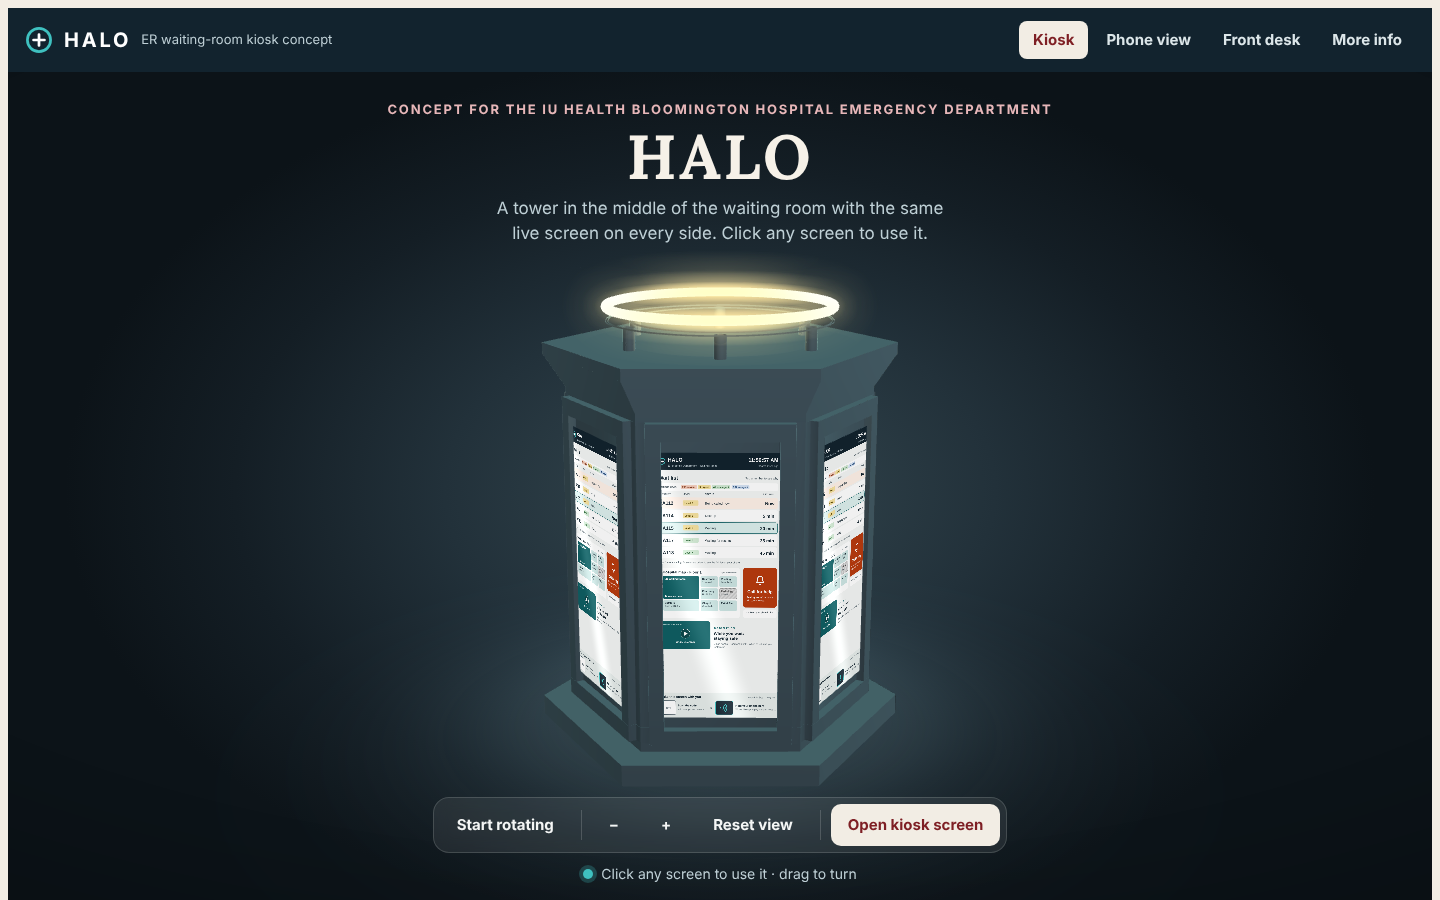
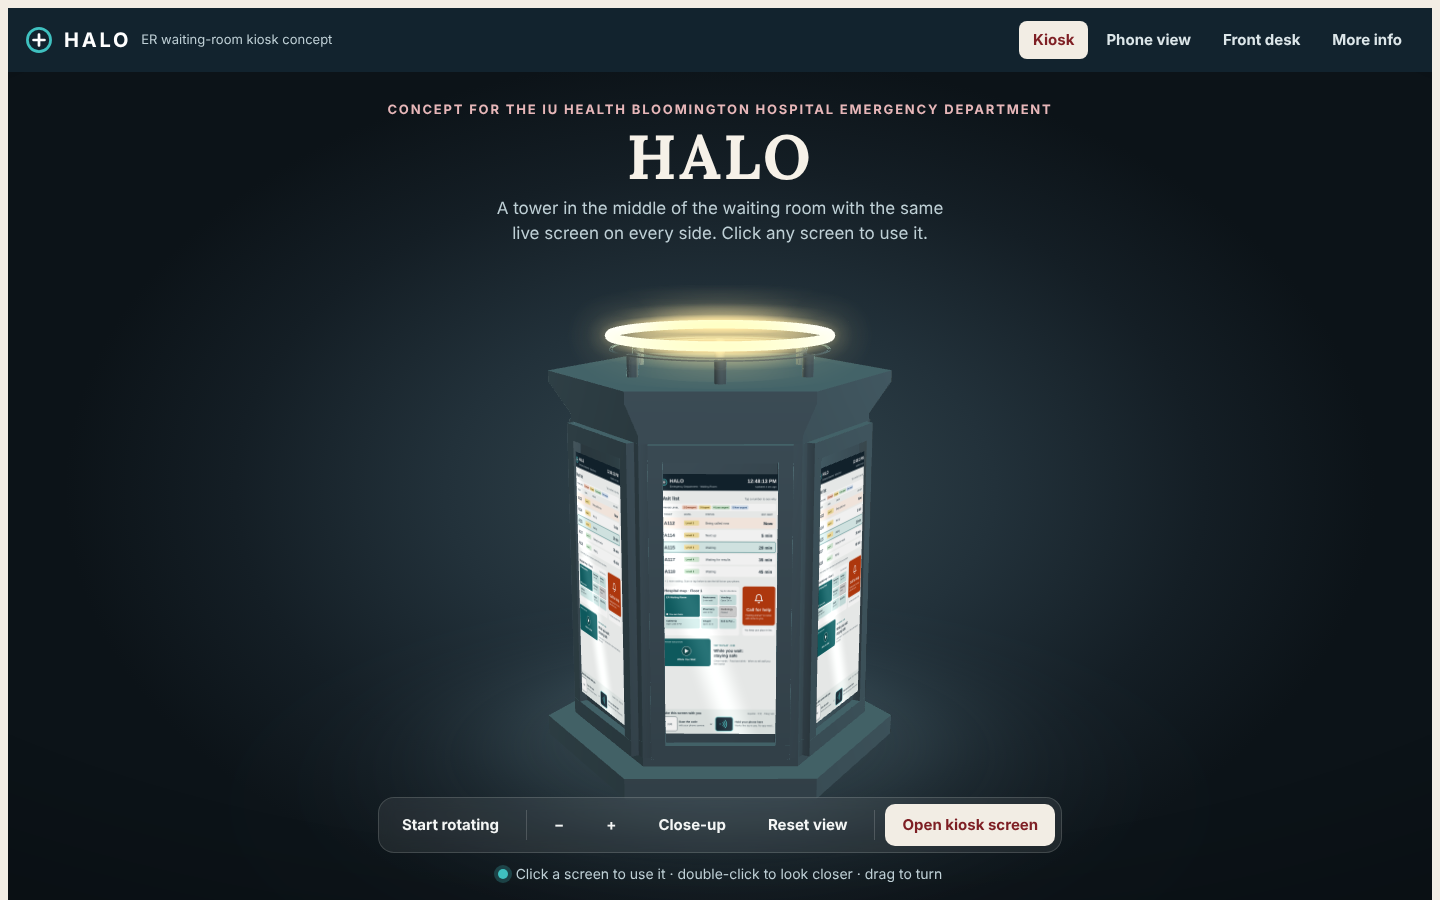
Smooth eased 3D controls, close-up view, sharper screens
Claude-Session: https://claude.ai/code/session_01JPVrxjvNyRJugvYniBXqZG

Changed region(s): [[0.375, 0.28, 0.625, 0.8711], [0.3438, 0.8711, 0.75, 0.9956], [0.2812, 0.9022, 0.4062, 0.9333]]

diff --git a/index.html b/index.html
@@ -73,6 +73,9 @@ button:focus-visible, a:focus-visible { outline: 3px solid #3FC1C0; outline-offs
 .tools button[aria-pressed="true"] { background: var(--crimson); border-color: var(--crimson); color: #FFFFFF; }
 .btn-primary { background: var(--crimson); border-color: var(--crimson); color: #FFFFFF; text-decoration: none; display: inline-flex; align-items: center; }
 .stage.panel-open .lede { display: none; }
+.stage-copy { transition: opacity 0.35s ease; }
+.stage.close-up .stage-copy { opacity: 0; }
+@media (prefers-reduced-motion: reduce) { .stage-copy { transition: none; } }
 .no-gl { position: absolute; inset: 0; z-index: 1; display: flex; flex-direction: column; align-items: center; justify-content: center; gap: 12px; text-align: center; padding: 24px; color: #BFD0D6; }
 
 .panel { flex: 0 0 min(520px, 42vw); background: var(--paper); border-left: 1px solid var(--wall-deep); display: flex; flex-direction: column; max-height: calc(100vh - var(--nav-h) - env(safe-area-inset-top, 0px)); position: sticky; top: calc(var(--nav-h) + env(safe-area-inset-top, 0px)); }
@@ -171,11 +174,12 @@ footer.site .in { max-width: 1440px; margin: 0 auto; padding-block: 18px 28px; d
           <span class="sep" aria-hidden="true"></span>
           <button type="button" id="zoomOut" aria-label="Zoom out">&minus;</button>
           <button type="button" id="zoomIn" aria-label="Zoom in">+</button>
+          <button type="button" id="closeUpBtn" aria-pressed="false">Close-up</button>
           <button type="button" id="resetView">Reset view</button>
           <span class="sep" aria-hidden="true"></span>
           <button type="button" id="openPanelBtn" class="primary">Open kiosk screen</button>
         </div>
-        <p class="hint"><span class="dot" aria-hidden="true"></span>Click any screen to use it · drag to turn</p>
+        <p class="hint"><span class="dot" aria-hidden="true"></span>Click a screen to use it · double-click to look closer · drag to turn</p>
       </div>
     </div>
     <aside class="panel" id="kioskPanel" aria-label="Screens" hidden>
@@ -1550,7 +1554,7 @@ class Component extends DCLogic {
       const r = [n[2], 0, -n[0]]; // viewer's right when facing this side
       const full = Math.hypot(B[0] - A[0], B[2] - A[2]);
       const w = full * (M.screenInset[1] - M.screenInset[0]);
-      const off = 0.16;
+      const off = 0.6;
       const cx = mx + n[0] * off, cz = mz + n[2] * off;
       const TL = [cx - r[0] * w / 2, yTop, cz - r[2] * w / 2], TR = [cx + r[0] * w / 2, yTop, cz + r[2] * w / 2];
       const BR = [TR[0], yBot, TR[2]], BL = [TL[0], yBot, TL[2]];
@@ -1597,7 +1601,9 @@ class Component extends DCLogic {
     };
     const tex = gl.createTexture();
     gl.bindTexture(gl.TEXTURE_2D, tex);
-    gl.texParameteri(gl.TEXTURE_2D, gl.TEXTURE_MIN_FILTER, gl.LINEAR);
+    gl.texParameteri(gl.TEXTURE_2D, gl.TEXTURE_MIN_FILTER, gl.LINEAR_MIPMAP_LINEAR);
+    const aniso = gl.getExtension('EXT_texture_filter_anisotropic') || gl.getExtension('WEBKIT_EXT_texture_filter_anisotropic');
+    if (aniso) gl.texParameterf(gl.TEXTURE_2D, aniso.TEXTURE_MAX_ANISOTROPY_EXT, Math.min(8, gl.getParameter(aniso.MAX_TEXTURE_MAX_ANISOTROPY_EXT)));
     gl.texParameteri(gl.TEXTURE_2D, gl.TEXTURE_MAG_FILTER, gl.LINEAR);
     gl.texParameteri(gl.TEXTURE_2D, gl.TEXTURE_WRAP_S, gl.CLAMP_TO_EDGE);
     gl.texParameteri(gl.TEXTURE_2D, gl.TEXTURE_WRAP_T, gl.CLAMP_TO_EDGE);
@@ -1625,25 +1631,35 @@ class Component extends DCLogic {
     }
     const xf = (m, v) => [0, 1, 2, 3].map((i) => m[i] * v[0] + m[4 + i] * v[1] + m[8 + i] * v[2] + m[12 + i] * v[3]);
 
-    // ---- camera
-    const START = { yaw: 0.52, pitch: 0.27, dist: 240 };
-    let yaw = START.yaw, pitch = START.pitch, dist = START.dist, spinning = false, dirty = true, panelOpen = false;
+    // ---- camera: everything eases toward a goal, so motion is smooth
+    const START = { yaw: 0.52, pitch: 0.24 };
+    const BASE_SY = -0.07, SCREEN_Y = (yTop + yBot) / 2 + 1;
+    const cam = { yaw: START.yaw, pitch: START.pitch, dist: 215, ty: 4, sy: BASE_SY };
+    const goal = Object.assign({}, cam);
+    let fitDist = 215, vel = 0, spin = 0, spinGoal = 0, dirty = true, panelOpen = false, closeUp = false, userZoomed = false, firstFit = true;
     let VP = null, eye = [0, 0, 0], hover = -1;
+    function computeFit() {
+      const asp = canvas.width / canvas.height, t = Math.tan((asp < 0.8 ? 0.78 : 0.62) / 2);
+      fitDist = Math.max(46 / (t * 0.58), 40 / (t * asp * 0.6));
+      if (!userZoomed && !closeUp) { goal.dist = fitDist; if (firstFit) cam.dist = fitDist; }
+      firstFit = false;
+    }
     function resize() {
       const r = canvas.getBoundingClientRect(), dpr = Math.min(window.devicePixelRatio || 1, 2);
       const w = Math.max(1, Math.round(r.width * dpr)), h = Math.max(1, Math.round(r.height * dpr));
-      if (canvas.width !== w || canvas.height !== h) { canvas.width = w; canvas.height = h; dirty = true; }
+      if (canvas.width !== w || canvas.height !== h) { canvas.width = w; canvas.height = h; computeFit(); dirty = true; }
     }
     function matrices() {
       const asp = canvas.width / canvas.height;
-      eye = [dist * Math.cos(pitch) * Math.sin(yaw), 4 + dist * Math.sin(pitch), dist * Math.cos(pitch) * Math.cos(yaw)];
-      const T = [1, 0, 0, 0, 0, 1, 0, 0, 0, 0, 1, 0, 0, 0, 0, 1];
+      eye = [cam.dist * Math.cos(cam.pitch) * Math.sin(cam.yaw), cam.ty + cam.dist * Math.sin(cam.pitch), cam.dist * Math.cos(cam.pitch) * Math.cos(cam.yaw)];
+      const T = [1, 0, 0, 0, 0, 1, 0, 0, 0, 0, 1, 0, 0, cam.sy, 0, 1];
       const fov = asp < 0.8 ? 0.78 : 0.62;
-      VP = mul(T, mul(persp(fov, asp, 20, 800), lookAt(eye, [0, 5, 0], up)));
+      VP = mul(T, mul(persp(fov, asp, 10, 900), lookAt(eye, [0, cam.ty, 0], up)));
     }
+    const near = (target, current) => target + Math.PI * 2 * Math.round((current - target) / (Math.PI * 2));
 
     // ---- live screen texture (drawn from the kiosk's own state)
-    const TW = 640, TH = Math.round(640 * 1580 / 760);
+    const TW = 1024, TH = 2048;
     const tc = document.createElement('canvas'); tc.width = TW; tc.height = TH;
     const c2 = tc.getContext('2d');
     let regions = [];
@@ -1787,6 +1803,7 @@ class Component extends DCLogic {
       drawScreen(kv);
       gl.bindTexture(gl.TEXTURE_2D, tex);
       gl.texImage2D(gl.TEXTURE_2D, 0, gl.RGBA, gl.RGBA, gl.UNSIGNED_BYTE, tc);
+      gl.generateMipmap(gl.TEXTURE_2D);
       dirty = true;
     }
 
@@ -1851,7 +1868,16 @@ class Component extends DCLogic {
     const reduce = window.matchMedia && window.matchMedia('(prefers-reduced-motion: reduce)').matches;
     function loop(t) {
       const dt = last ? Math.min(0.05, (t - last) / 1000) : 0; last = t;
-      if (spinning) { yaw += dt * 0.45; dirty = true; }
+      if (!(drag && drag.moved) && Math.abs(vel) > 1e-4) { goal.yaw += vel * dt; vel *= Math.exp(-dt * 3.2); }
+      spin += (spinGoal - spin) * (1 - Math.exp(-dt * 2.5));
+      if (Math.abs(spin) > 1e-4) goal.yaw += spin * dt;
+      const k = 1 - Math.exp(-dt * 9);
+      let moving = false;
+      for (const key of ['yaw', 'pitch', 'dist', 'ty', 'sy']) {
+        const d = goal[key] - cam[key];
+        if (Math.abs(d) > 1e-4) { cam[key] += d * k; moving = true; } else cam[key] = goal[key];
+      }
+      if (moving) dirty = true;
       if (kiosk.state.mode === 'help') dirty = true;
       if (dirty && view === 'kiosk') render();
       requestAnimationFrame(loop);
@@ -1888,11 +1914,44 @@ class Component extends DCLogic {
       openPanel('kiosk');
     }
     let drag = null;
-    canvas.addEventListener('pointerdown', (e) => { drag = { x: e.clientX, y: e.clientY, sx: e.clientX, sy: e.clientY, moved: false }; canvas.setPointerCapture(e.pointerId); });
+    const pts = new Map();
+    let pinch = null;
+    const closeBtn = document.getElementById('closeUpBtn');
+    function setClose(on) { closeUp = on; stage.classList.toggle('close-up', on); closeBtn.setAttribute('aria-pressed', on ? 'true' : 'false'); closeBtn.textContent = on ? 'Back to tower' : 'Close-up'; }
+    function leaveClose() { if (!closeUp) return; setClose(false); goal.dist = userZoomed ? Math.max(goal.dist, fitDist * 0.8) : fitDist; goal.ty = 4; goal.sy = BASE_SY; goal.pitch = Math.max(goal.pitch, 0.18); }
+    function focusScreen(i) {
+      const n = screens[i].n;
+      setSpin(false); vel = 0; setClose(true);
+      goal.yaw = near(Math.atan2(n[0], n[2]), cam.yaw); goal.pitch = 0.03; goal.dist = 126; goal.ty = SCREEN_Y; goal.sy = 0.1;
+    }
+    function facingScreen() {
+      let best = 0, bd = 9;
+      screens.forEach((s, i) => { const d = Math.abs(near(Math.atan2(s.n[0], s.n[2]), cam.yaw) - cam.yaw); if (d < bd) { bd = d; best = i; } });
+      return best;
+    }
+    canvas.addEventListener('pointerdown', (e) => {
+      pts.set(e.pointerId, { x: e.clientX, y: e.clientY });
+      canvas.setPointerCapture(e.pointerId);
+      if (pts.size === 2) { const [p1, p2] = [...pts.values()]; pinch = { d: Math.hypot(p1.x - p2.x, p1.y - p2.y) }; drag = null; return; }
+      drag = { x: e.clientX, y: e.clientY, sx: e.clientX, sy: e.clientY, t: performance.now(), moved: false }; vel = 0;
+    });
     canvas.addEventListener('pointermove', (e) => {
+      if (pts.has(e.pointerId)) pts.set(e.pointerId, { x: e.clientX, y: e.clientY });
+      if (pinch && pts.size === 2) {
+        const [p1, p2] = [...pts.values()]; const d = Math.hypot(p1.x - p2.x, p1.y - p2.y);
+        if (d > 0 && pinch.d > 0) { goal.dist = Math.max(85, Math.min(420, goal.dist * pinch.d / d)); userZoomed = true; leaveClose(); }
+        pinch.d = d; return;
+      }
       if (drag) {
-        if (Math.hypot(e.clientX - drag.sx, e.clientY - drag.sy) > 5) { drag.moved = true; canvas.classList.add('dragging'); }
-        if (drag.moved) { yaw -= (e.clientX - drag.x) * 0.008; pitch = Math.max(-0.15, Math.min(1.2, pitch + (e.clientY - drag.y) * 0.006)); dirty = true; }
+        if (!drag.moved && Math.hypot(e.clientX - drag.sx, e.clientY - drag.sy) > 5) { drag.moved = true; canvas.classList.add('dragging'); setSpin(false); leaveClose(); }
+        if (drag.moved) {
+          const now = performance.now(), dtv = Math.max(8, now - drag.t) / 1000;
+          const dYaw = -(e.clientX - drag.x) * 0.0085;
+          goal.yaw += dYaw;
+          goal.pitch = Math.max(-0.1, Math.min(1.15, goal.pitch + (e.clientY - drag.y) * 0.006));
+          vel = Math.max(-6, Math.min(6, vel * 0.6 + (dYaw / dtv) * 0.4));
+          drag.t = now;
+        }
         drag.x = e.clientX; drag.y = e.clientY;
         return;
       }
@@ -1901,18 +1960,31 @@ class Component extends DCLogic {
       if (h !== hover) { hover = h; dirty = true; canvas.classList.toggle('over-screen', h >= 0); }
     });
     const end = (e) => {
+      pts.delete(e.pointerId);
+      if (pinch) { if (pts.size < 2) pinch = null; drag = null; canvas.classList.remove('dragging'); return; }
       if (drag && !drag.moved && e.type === 'pointerup') { const hit = pick(e.clientX, e.clientY); if (hit) clickScreen(hit); }
+      if (drag && drag.moved && performance.now() - drag.t > 120) vel = 0;
       drag = null; canvas.classList.remove('dragging');
     };
     canvas.addEventListener('pointerup', end); canvas.addEventListener('pointercancel', end);
     canvas.addEventListener('pointerleave', () => { if (!drag && hover !== -1) { hover = -1; dirty = true; canvas.classList.remove('over-screen'); } });
-    canvas.addEventListener('wheel', (e) => { e.preventDefault(); dist = Math.max(80, Math.min(360, dist * (e.deltaY > 0 ? 1.08 : 0.93))); dirty = true; }, { passive: false });
+    canvas.addEventListener('dblclick', (e) => { const hit = pick(e.clientX, e.clientY); if (hit) focusScreen(hit.i); });
+    canvas.addEventListener('wheel', (e) => {
+      e.preventDefault();
+      const dy = e.deltaMode === 1 ? e.deltaY * 16 : e.deltaY;
+      goal.dist = Math.max(85, Math.min(420, goal.dist * Math.exp(dy * 0.0012)));
+      userZoomed = true; if (dy > 0) leaveClose();
+    }, { passive: false });
     const spinBtn = document.getElementById('spinBtn');
-    function setSpin(on) { spinning = on; spinBtn.setAttribute('aria-pressed', on ? 'true' : 'false'); spinBtn.textContent = on ? 'Stop rotating' : 'Start rotating'; }
-    spinBtn.addEventListener('click', () => setSpin(!spinning));
-    document.getElementById('zoomIn').addEventListener('click', () => { dist = Math.max(80, dist * 0.85); dirty = true; });
-    document.getElementById('zoomOut').addEventListener('click', () => { dist = Math.min(360, dist * 1.18); dirty = true; });
-    document.getElementById('resetView').addEventListener('click', () => { yaw = START.yaw; pitch = START.pitch; dist = START.dist; setSpin(false); dirty = true; });
+    function setSpin(on) { spinGoal = on ? 0.42 : 0; spinBtn.setAttribute('aria-pressed', on ? 'true' : 'false'); spinBtn.textContent = on ? 'Stop rotating' : 'Start rotating'; }
+    spinBtn.addEventListener('click', () => { const on = spinGoal === 0; if (on) leaveClose(); setSpin(on); });
+    document.getElementById('zoomIn').addEventListener('click', () => { goal.dist = Math.max(85, goal.dist * 0.8); userZoomed = true; });
+    document.getElementById('zoomOut').addEventListener('click', () => { goal.dist = Math.min(420, goal.dist * 1.25); userZoomed = true; leaveClose(); });
+    closeBtn.addEventListener('click', () => { if (closeUp) leaveClose(); else focusScreen(facingScreen()); });
+    document.getElementById('resetView').addEventListener('click', () => {
+      setSpin(false); setClose(false); vel = 0; userZoomed = false;
+      goal.yaw = near(START.yaw, cam.yaw); goal.pitch = START.pitch; goal.dist = fitDist; goal.ty = 4; goal.sy = BASE_SY;
+    });
     if (reduce) setSpin(false);
     return { wake() { dirty = true; }, setPanel(on) { panelOpen = on; dirty = true; }, update };
   })();

diff --git a/README.md b/README.md
@@ -10,7 +10,7 @@ An interactive prototype of **HALO**, a live wait screen for the emergency room 
 
 ## How the site works
 
-- **Kiosk:** the home page is a 3D model of the tower, rebuilt from our PrusaSlicer print file. All six sides show the live kiosk screen. Click a screen and the full kiosk opens in a panel on the right. Whatever you clicked on the 3D screen also happens: Call for help sets off the alarm (the tower's glowing halo flashes red), a map place opens directions, a ticket shows its reason, the video plays, and the tap pad sends the page to the phone. Drag to turn the tower, zoom, or press **Start rotating**.
+- **Kiosk:** the home page is a 3D model of the tower, rebuilt from our PrusaSlicer print file. All six sides show the live kiosk screen. Click a screen and the full kiosk opens in a panel on the right. Whatever you clicked on the 3D screen also happens: Call for help sets off the alarm (the tower's glowing halo flashes red), a map place opens directions, a ticket shows its reason, the video plays, and the tap pad sends the page to the phone. Drag to turn the tower (it glides to a stop), scroll or pinch to zoom, press **Start rotating**, or press **Close-up** (or double-click a screen) to fly in and read it.
 - **Phone view:** opens the phone page in the right-side panel, synced to the kiosk. Tabs at the top of the panel switch between the kiosk screen and the phone.
 - **Front desk:** the staff check-in panel with triage levels and the current line.
 - **More info:** why HALO exists, the features, how we got here, the concept PDFs and the print file.
